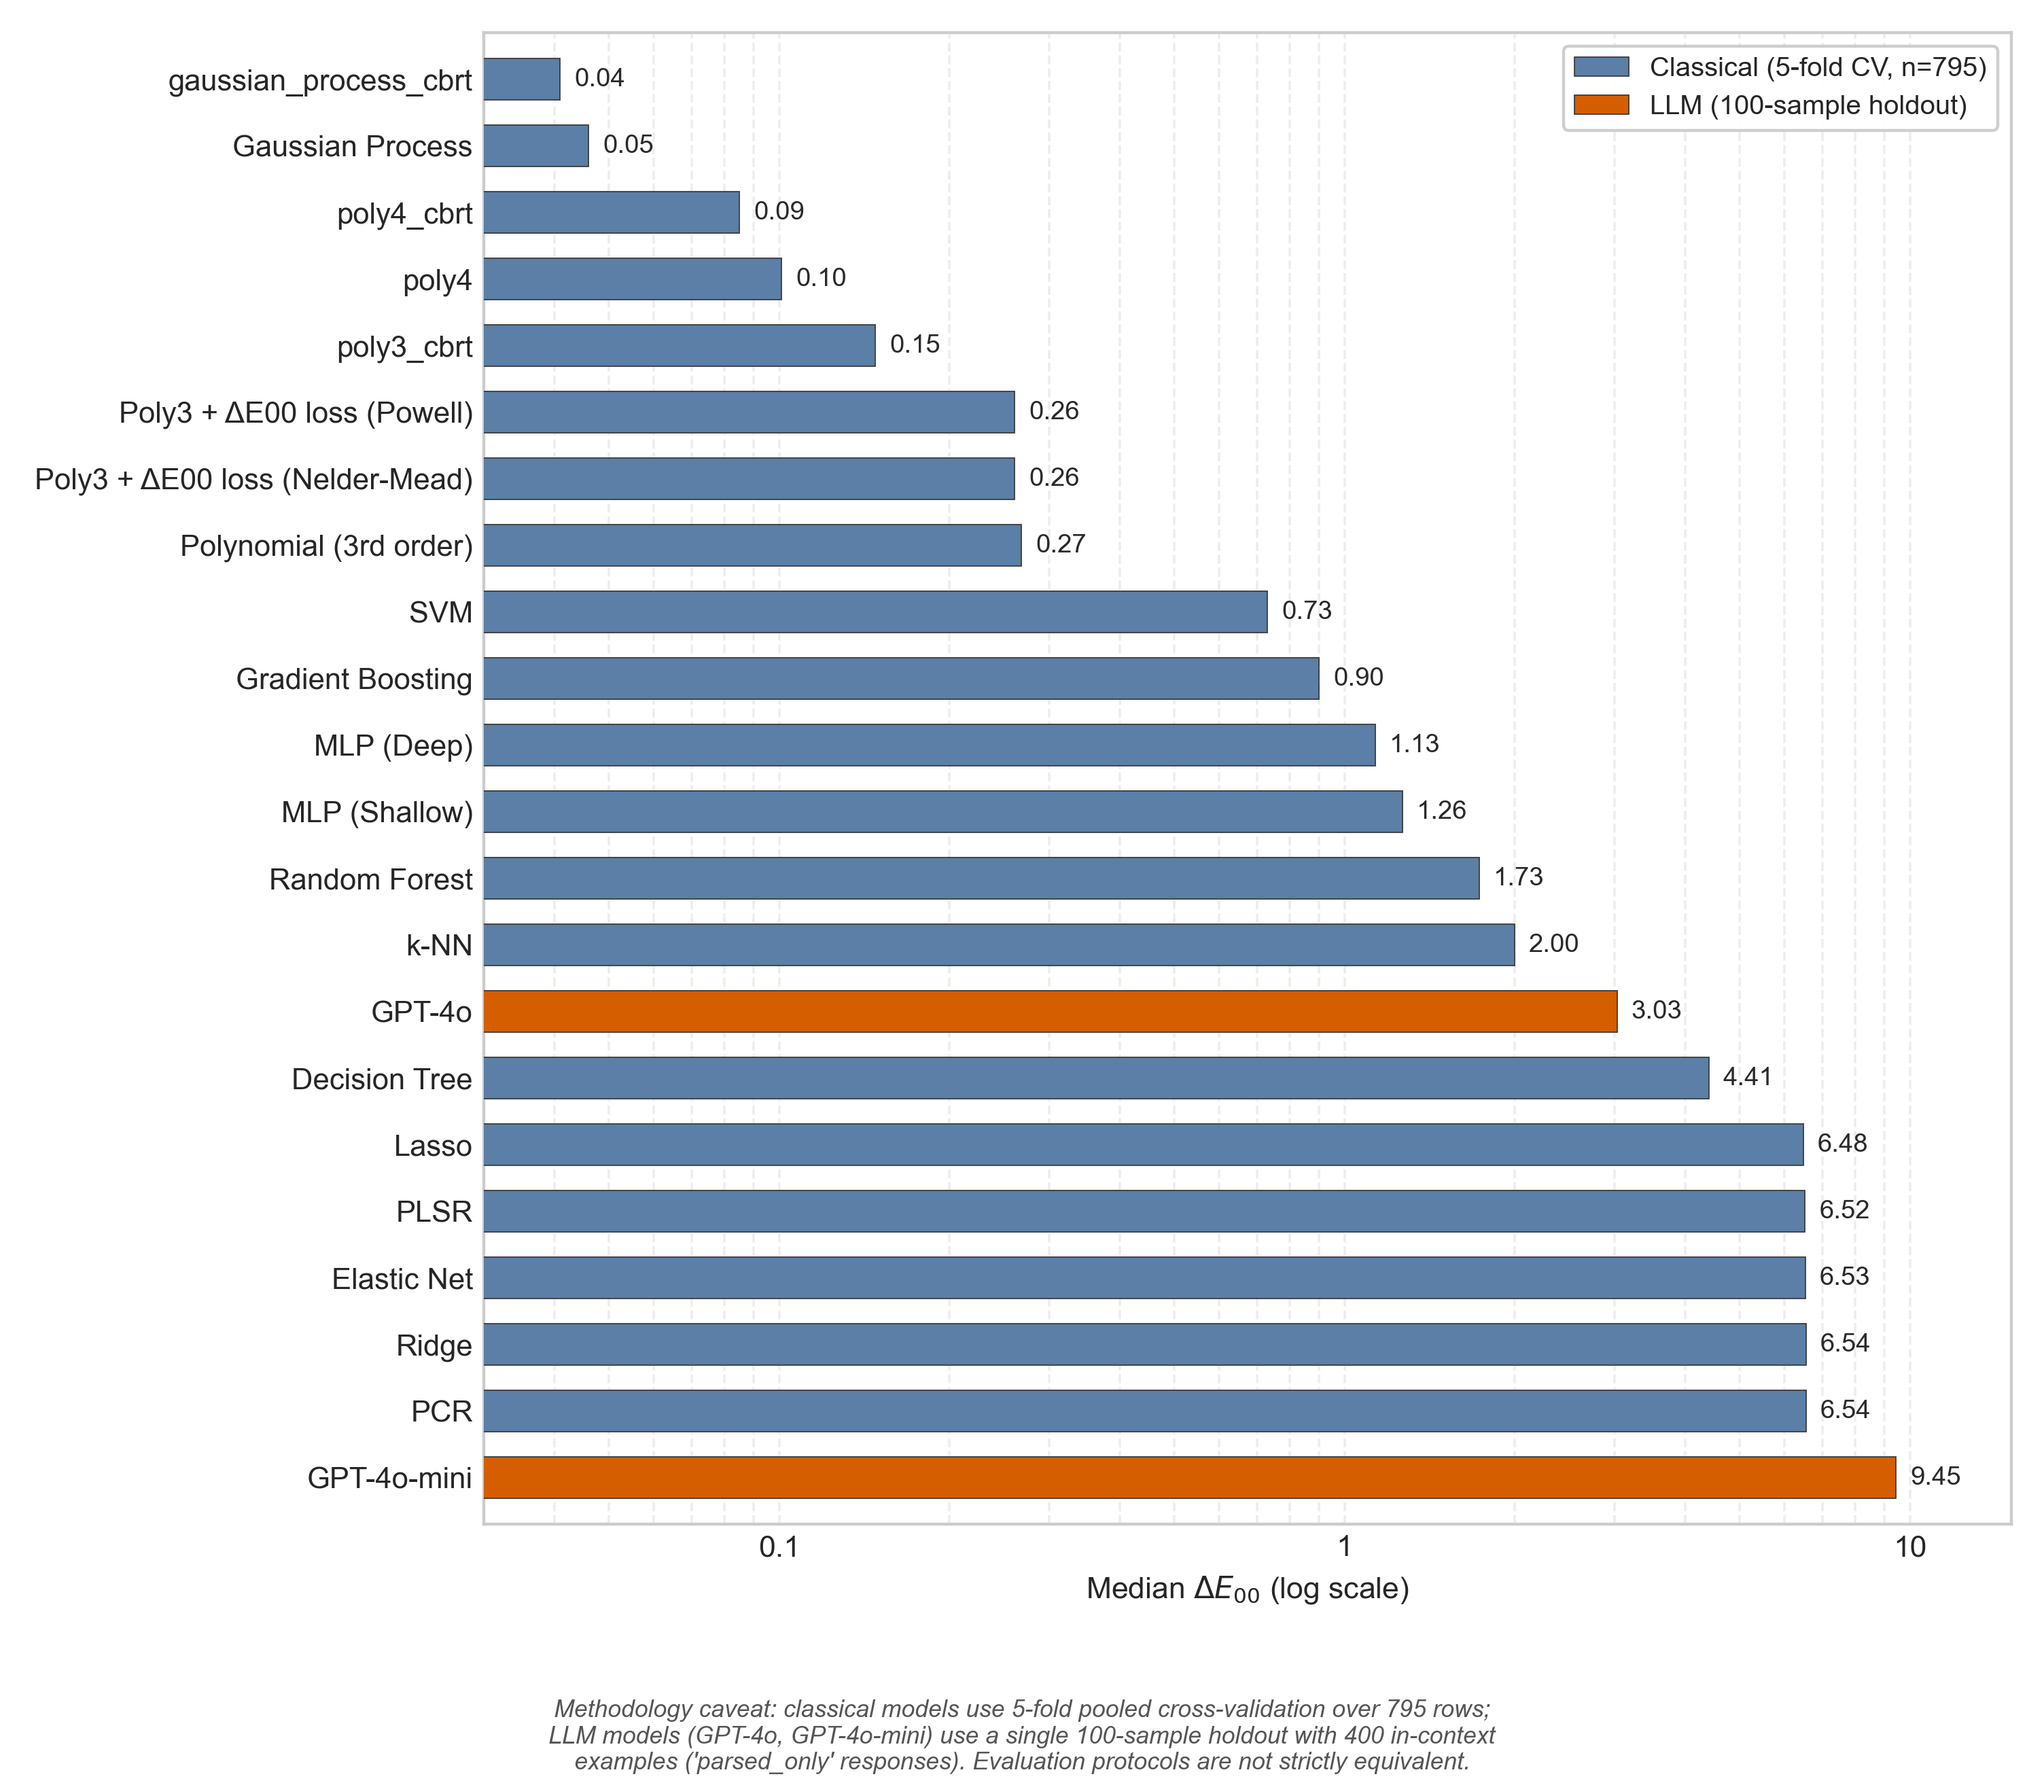
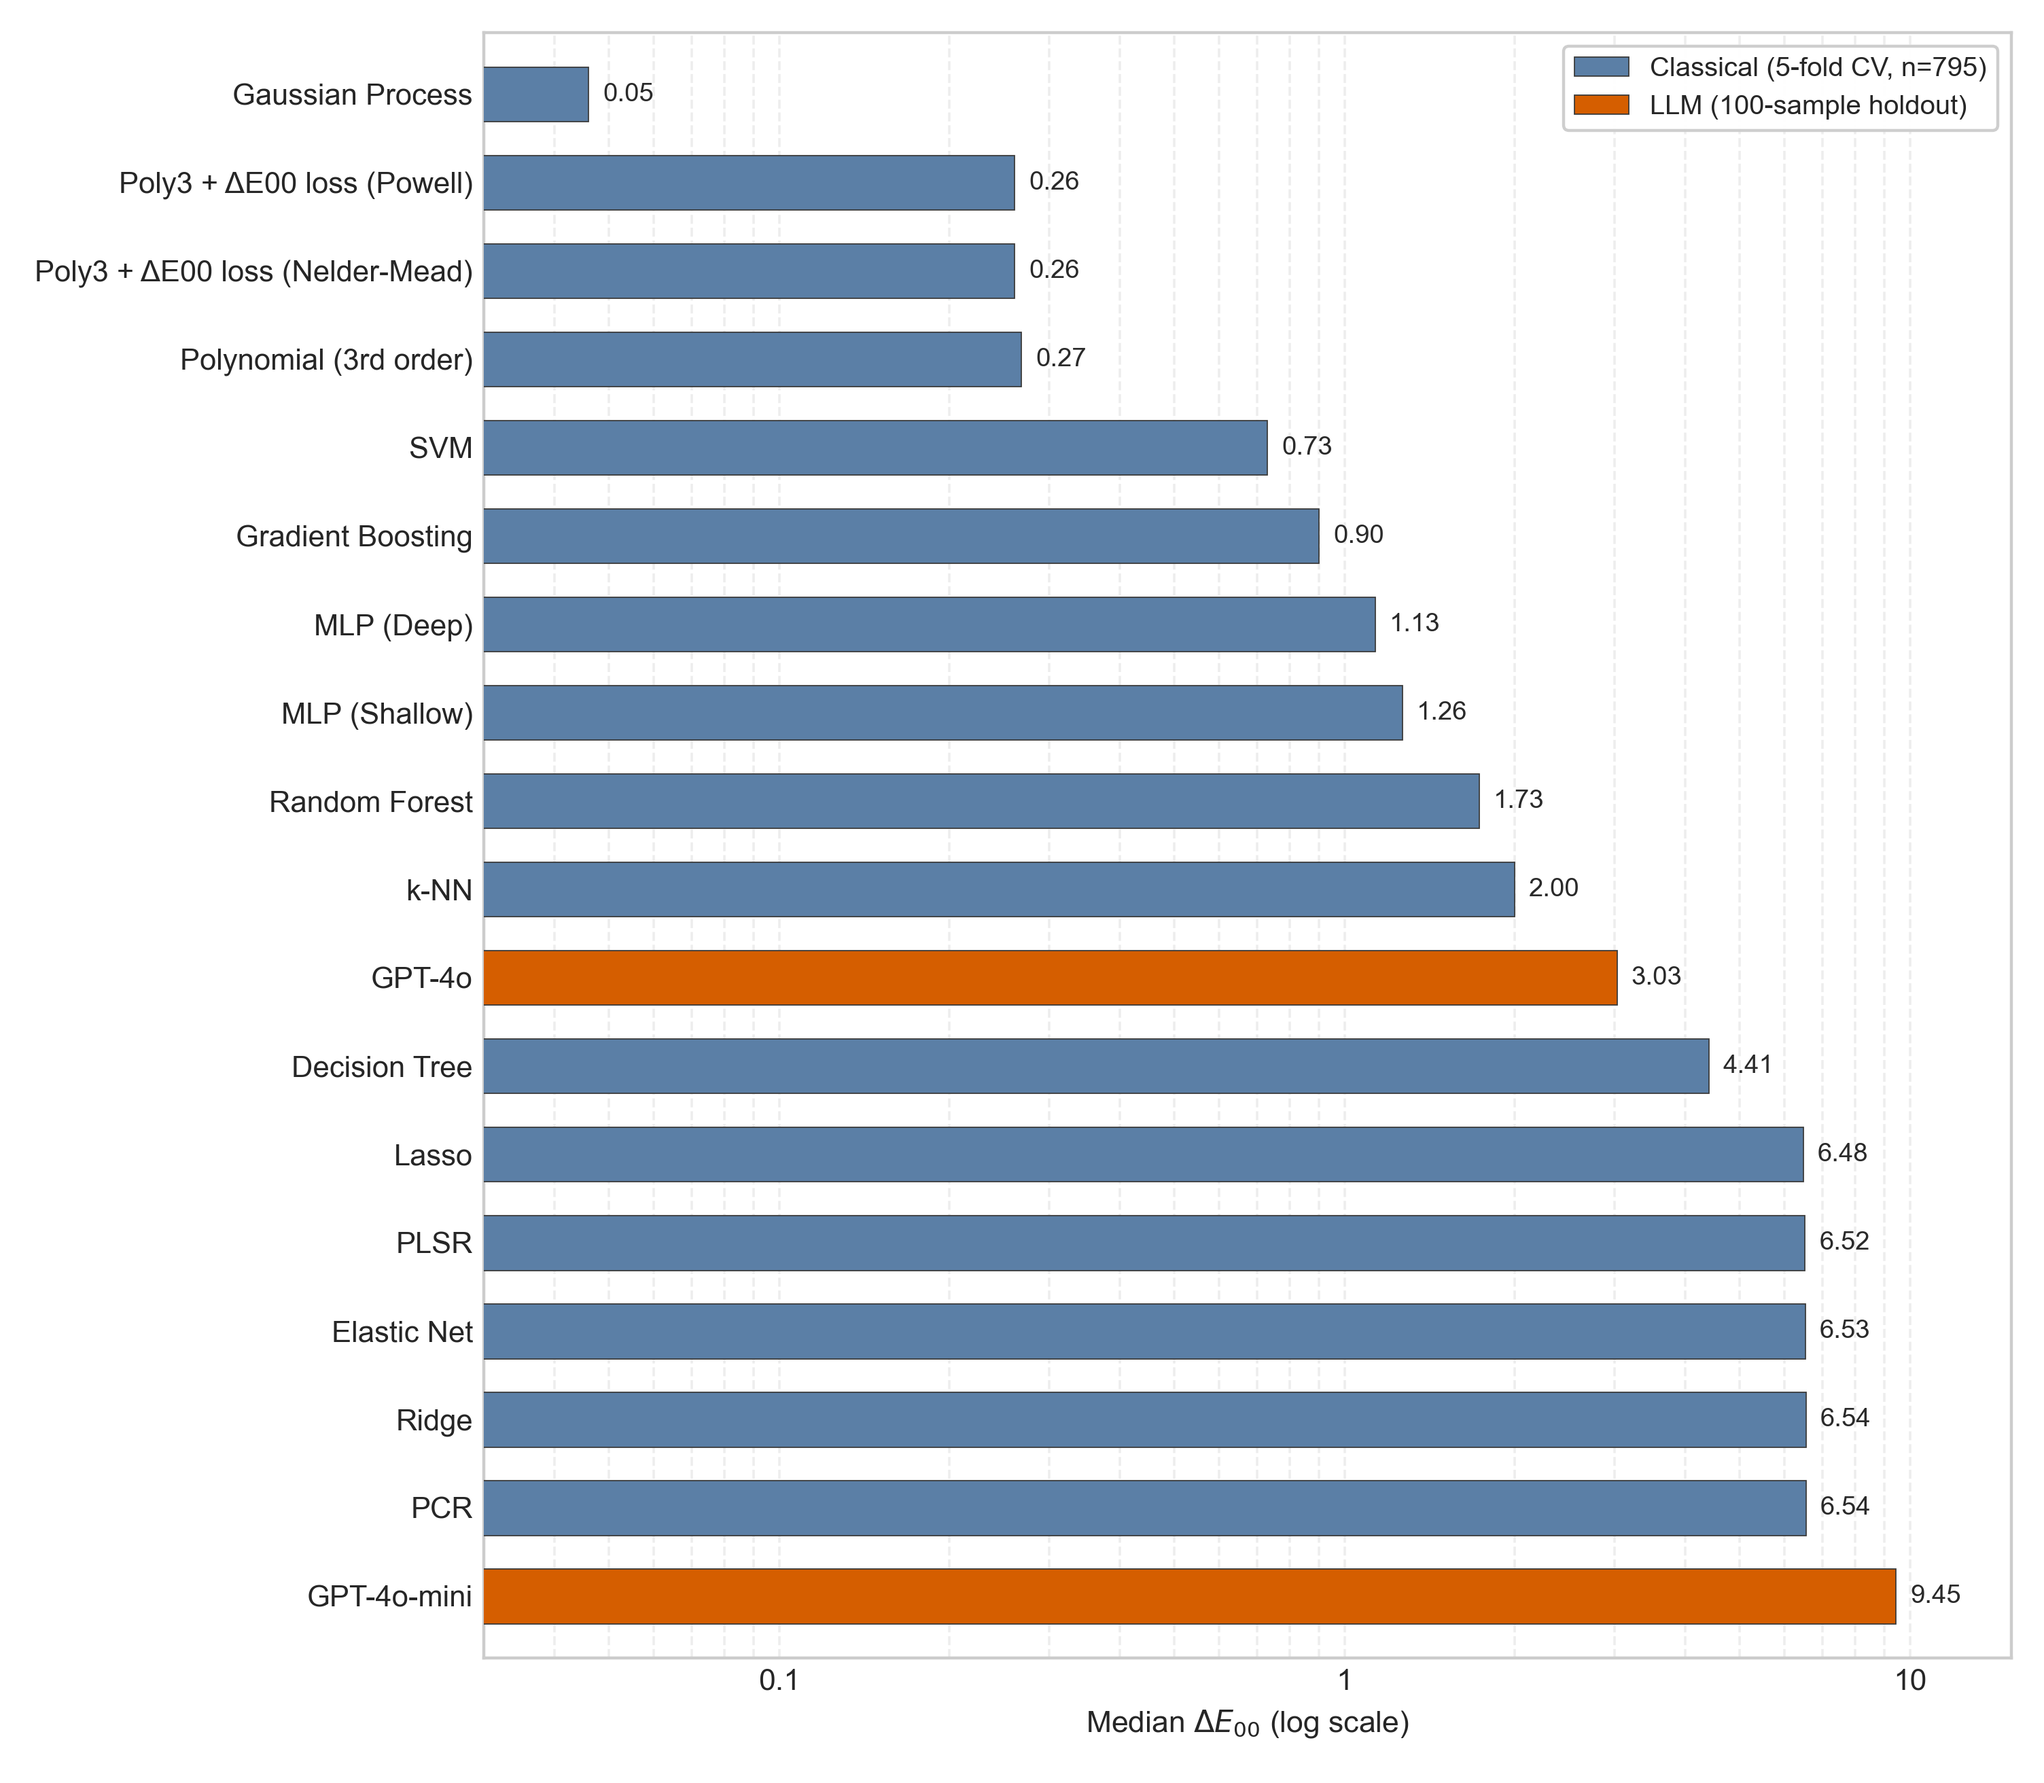
figures: pin the LLM-vs-classical figure to its 16 captioned classical models and drop the in-figure footnote
Without the filter the fairness-run rows would appear with raw code names;
the protocol caveat lives in the paper caption. Audit 02 low-severity item 6.

Changed region(s): [[0.0312, 0.0312, 0.9375, 1.0]]

diff --git a/journal/figures/fig_llm_vs_classical.py b/journal/figures/fig_llm_vs_classical.py
@@ -75,6 +75,10 @@ def load_data() -> pd.DataFrame:
     # exact-deduplicated at load (795 for PC10-CMY since 12 Aug), so a literal
     # here would silently go stale.
     n_classical = int(raw["n"].iloc[0])
+    # Only the display-named models: the 14-model registry plus the two dE00
+    # variants, per the paper's caption. The fitting-space variants added to
+    # summary.csv by the fairness run are tabulated in the paper, not plotted.
+    raw = raw[raw["model"].isin(MODEL_DISPLAY_NAMES)]
     classical = raw[["model", "median"]].copy()
     classical["group"] = "classical"
 
@@ -128,10 +132,8 @@ def make_figure(df: pd.DataFrame, out_path: str, n_classical: int) -> None:
         loc="upper right", frameon=True, framealpha=0.95, fontsize=9,
     )
 
-    fig.text(0.5, 0.005, caption(n_classical), ha="center", va="bottom", fontsize=8.0,
-             color="#555555", style="italic")
-
-    fig.tight_layout(rect=(0, 0.075, 1, 1))
+    # No in-figure footnote: the protocol caveat is stated in the paper caption.
+    fig.tight_layout()
     fig.savefig(out_path, dpi=320)
     plt.close(fig)
     print(f"Wrote: {out_path}")
